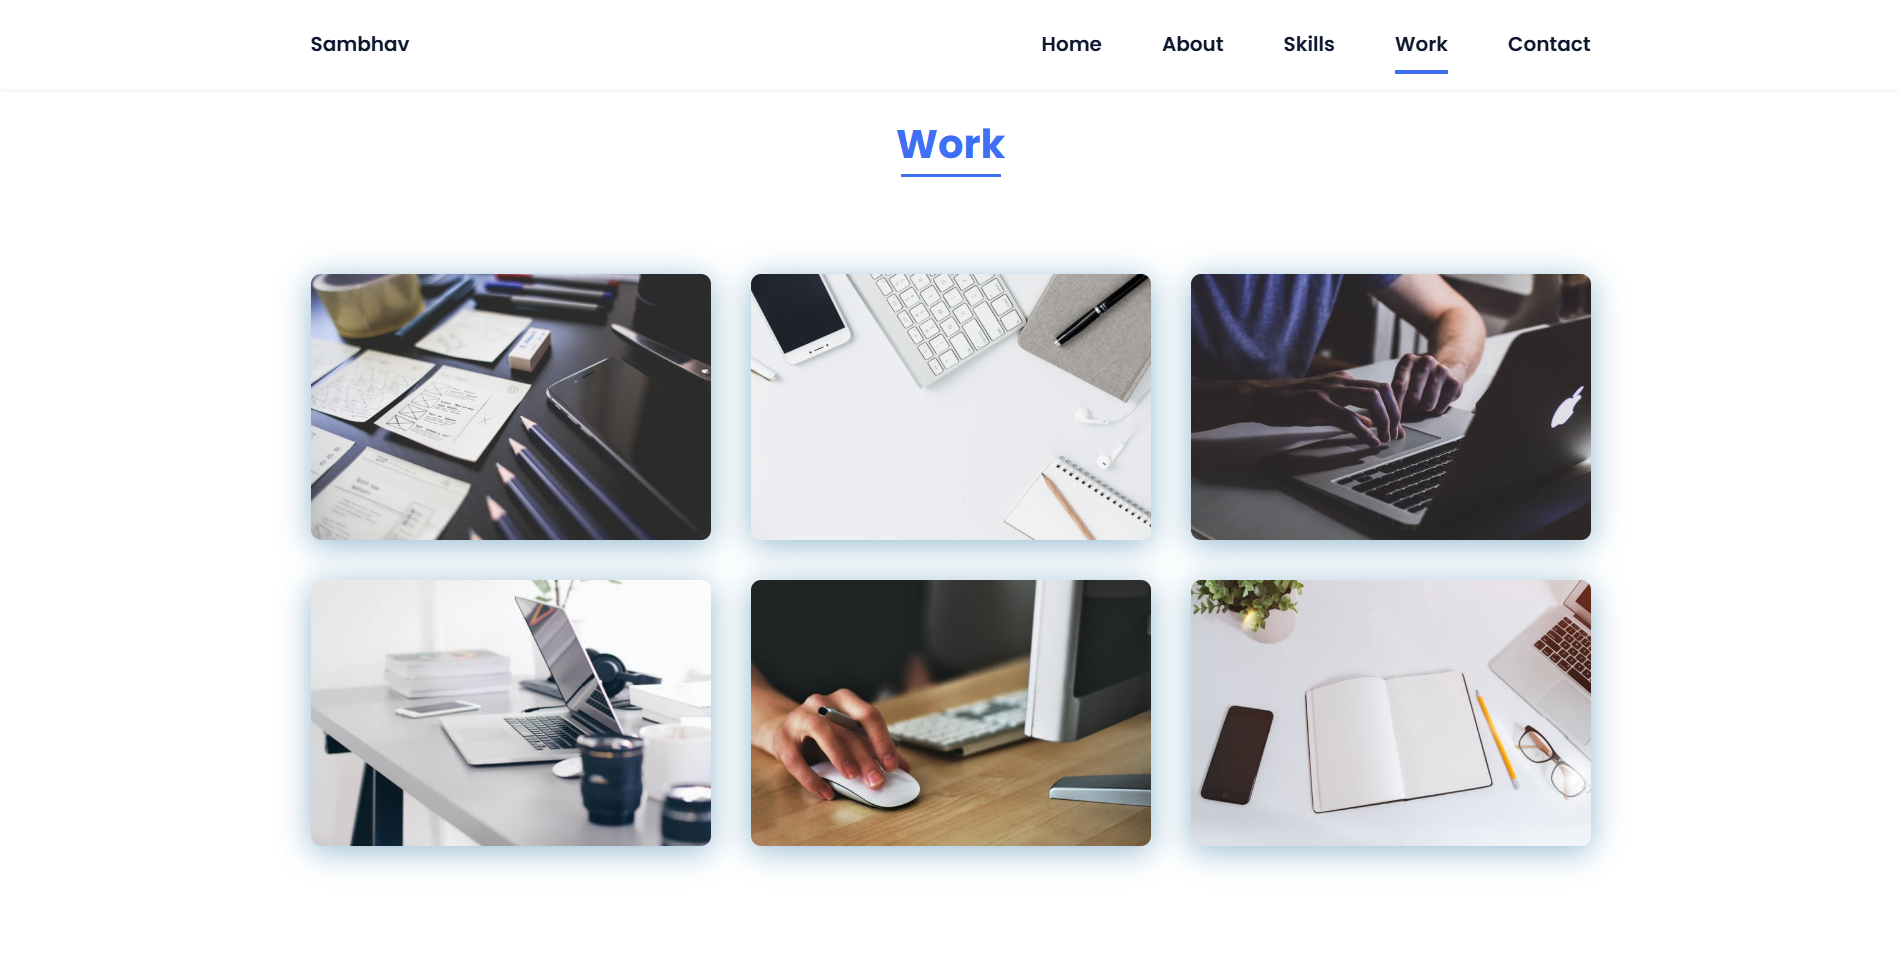
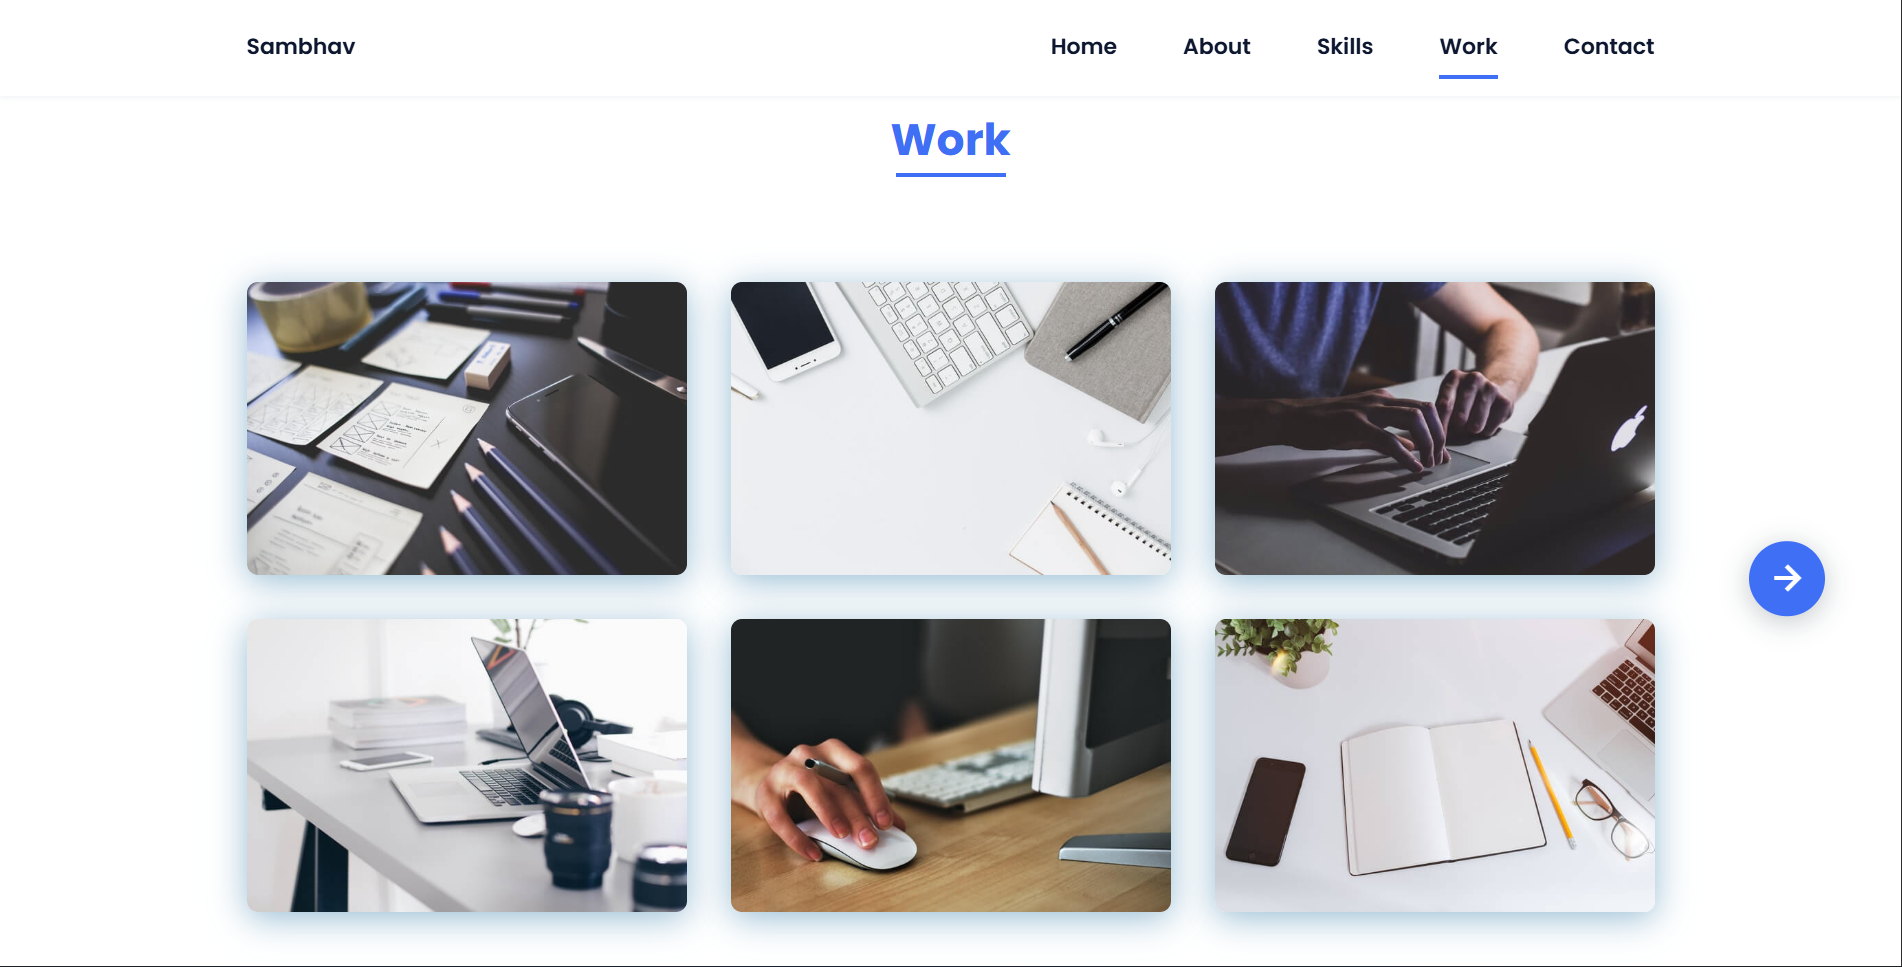
Portfolio

diff --git a/index.html b/index.html
@@ -7,7 +7,7 @@
         <link rel="stylesheet" href="assets/css/styles.css">
 
         <!-- =====BOX ICONS===== -->
-        <link href='https://cdn.jsdelivr.net/npm/boxicons@2.0.5/css/boxicons.min.css' rel='stylesheet'>
+        <link href='https://cdn.jsdelivr.net/npm/boxicons@2.1.4/css/boxicons.min.css' rel='stylesheet'>
 
         <title>Sambhav Dwivedi</title>
          <link rel="icon" href="https://img.pikbest.com/png-images/20240921/letter-sd-creative-classic-shape-elegant-typography-logo_10872129.png!w700wp">
@@ -176,16 +176,16 @@
                 <h1 class="section-title">Work</h1>
 
                 <div class="work__container bd-grid">
-                    <a href="https://moviessfinder.netlify.app/" class="work__img" target="_blank">
+                    <a href="https://binaryconvertdecimal.netlify.app/" class="work__img" target="_blank">
                         <img src="assets/img/work1.jpg" alt="">
                     </a>
-                    <a href="https://binaryconvertdecimal.netlify.app/" class="work__img" target="_blank">
+                    <a href="https://weathertacker.netlify.app/" class="work__img" target="_blank">
                         <img src="assets/img/work2.jpg" alt="">
                     </a>
                     <a href="https://videosgameinfo.netlify.app/" class="work__img" target="_blank">
                         <img src="assets/img/work3.jpg" alt="">
                     </a>
-                    <a href="https://weathertacker.netlify.app/" class="work__img" target="_blank">
+                    <a href="https://moviessfinder.netlify.app/" class="work__img" target="_blank">
                         <img src="assets/img/work4.jpg" alt="">
                     </a>
                     <a href="https://emojihunting.netlify.app/" class="work__img" target="_blank">
@@ -194,6 +194,12 @@
                     <a href="https://dictionaryysearch.netlify.app/" class="work__img" target="_blank">
                         <img src="assets/img/work6.jpg" alt="">
                     </a>
+                </div>
+
+                <div class="work__arrow">
+                <a href="projects.html" class="arrow-link" title="">
+                <i class='bx bx-right-arrow-alt'></i>
+                </a>
                 </div>
             </section>
 

diff --git a/assets/css/styles.css b/assets/css/styles.css
@@ -49,6 +49,7 @@ body {
   font-size: var(--normal-font-size);
   color: var(--second-color);
   user-select: none;
+  overflow-x: hidden;
 }
 
 h1, h2, p {
@@ -360,6 +361,50 @@ img {
 .work__img img:hover {
   transform: scale(1.1);
 }
+
+/* ===== WORK SECTION ARROW ===== */
+.work__arrow {
+  position: relative;
+  right: -92%;
+  top: -990%;
+  margin-top: -242px;
+  margin-bottom: 200px;
+  transform: translateY(-50%);
+  z-index: 20;
+}
+
+.arrow-link {
+  display: inline-flex;
+  align-items: center;
+  justify-content: center;
+  background-color: var(--first-color);
+  color: #ffffff;
+  font-size: 2.2rem;
+  border-radius: 50%;
+  width: 55px;
+  height: 55px;
+  transition: all 0.2s ease;
+  box-shadow: 0px 4px 20px rgba(14, 36, 49, 0.25);
+}
+
+.arrow-link:hover {
+  background-color: #fff;
+  color: var(--first-color);
+  transform: scale(1.15);
+  box-shadow: 0px 6px 25px rgb(148, 216, 255);
+}
+
+@media (max-width: 768px) {
+  .arrow-link {
+    font-size: 1.8rem;
+    width: 45px;
+    height: 45px;
+  }
+  .work__arrow {
+    right: 1rem;
+  }
+}
+
 
 /* ===== CONTACT =====*/
 .contact__input {

diff --git a/assets/js/main.js b/assets/js/main.js
@@ -202,3 +202,11 @@ document.querySelectorAll('.nav__link').forEach(link => {
     }
   });
 });
+ScrollReveal().reveal('.work__arrow', { 
+    origin: 'top',
+    origin: 'bottom', 
+    distance: '200px', 
+    duration: 1000, 
+    delay: 150,
+    reset: true
+});
